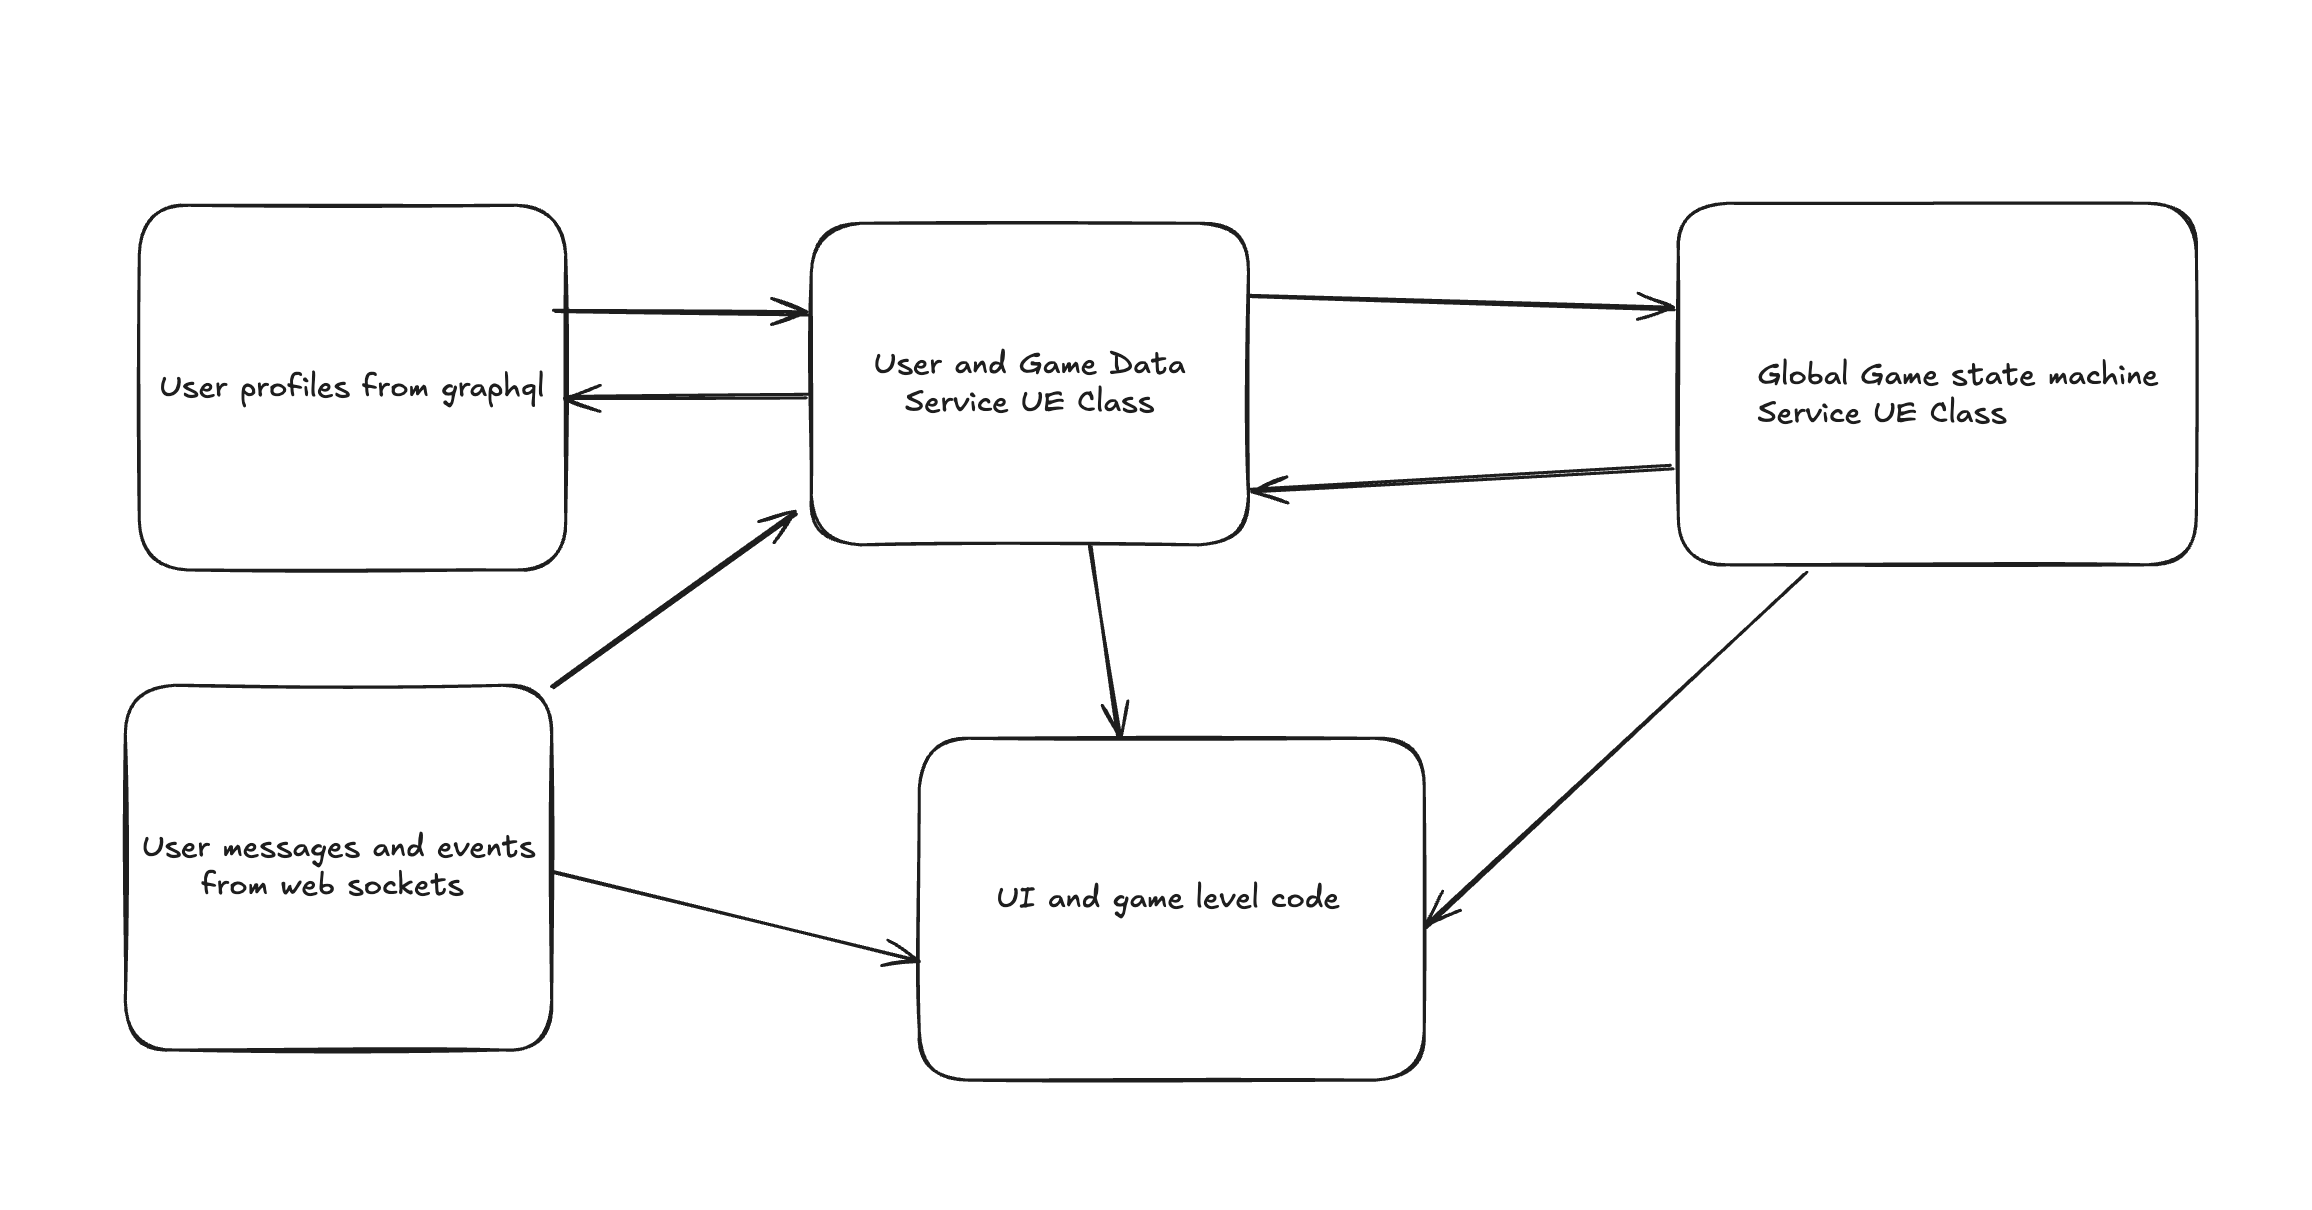
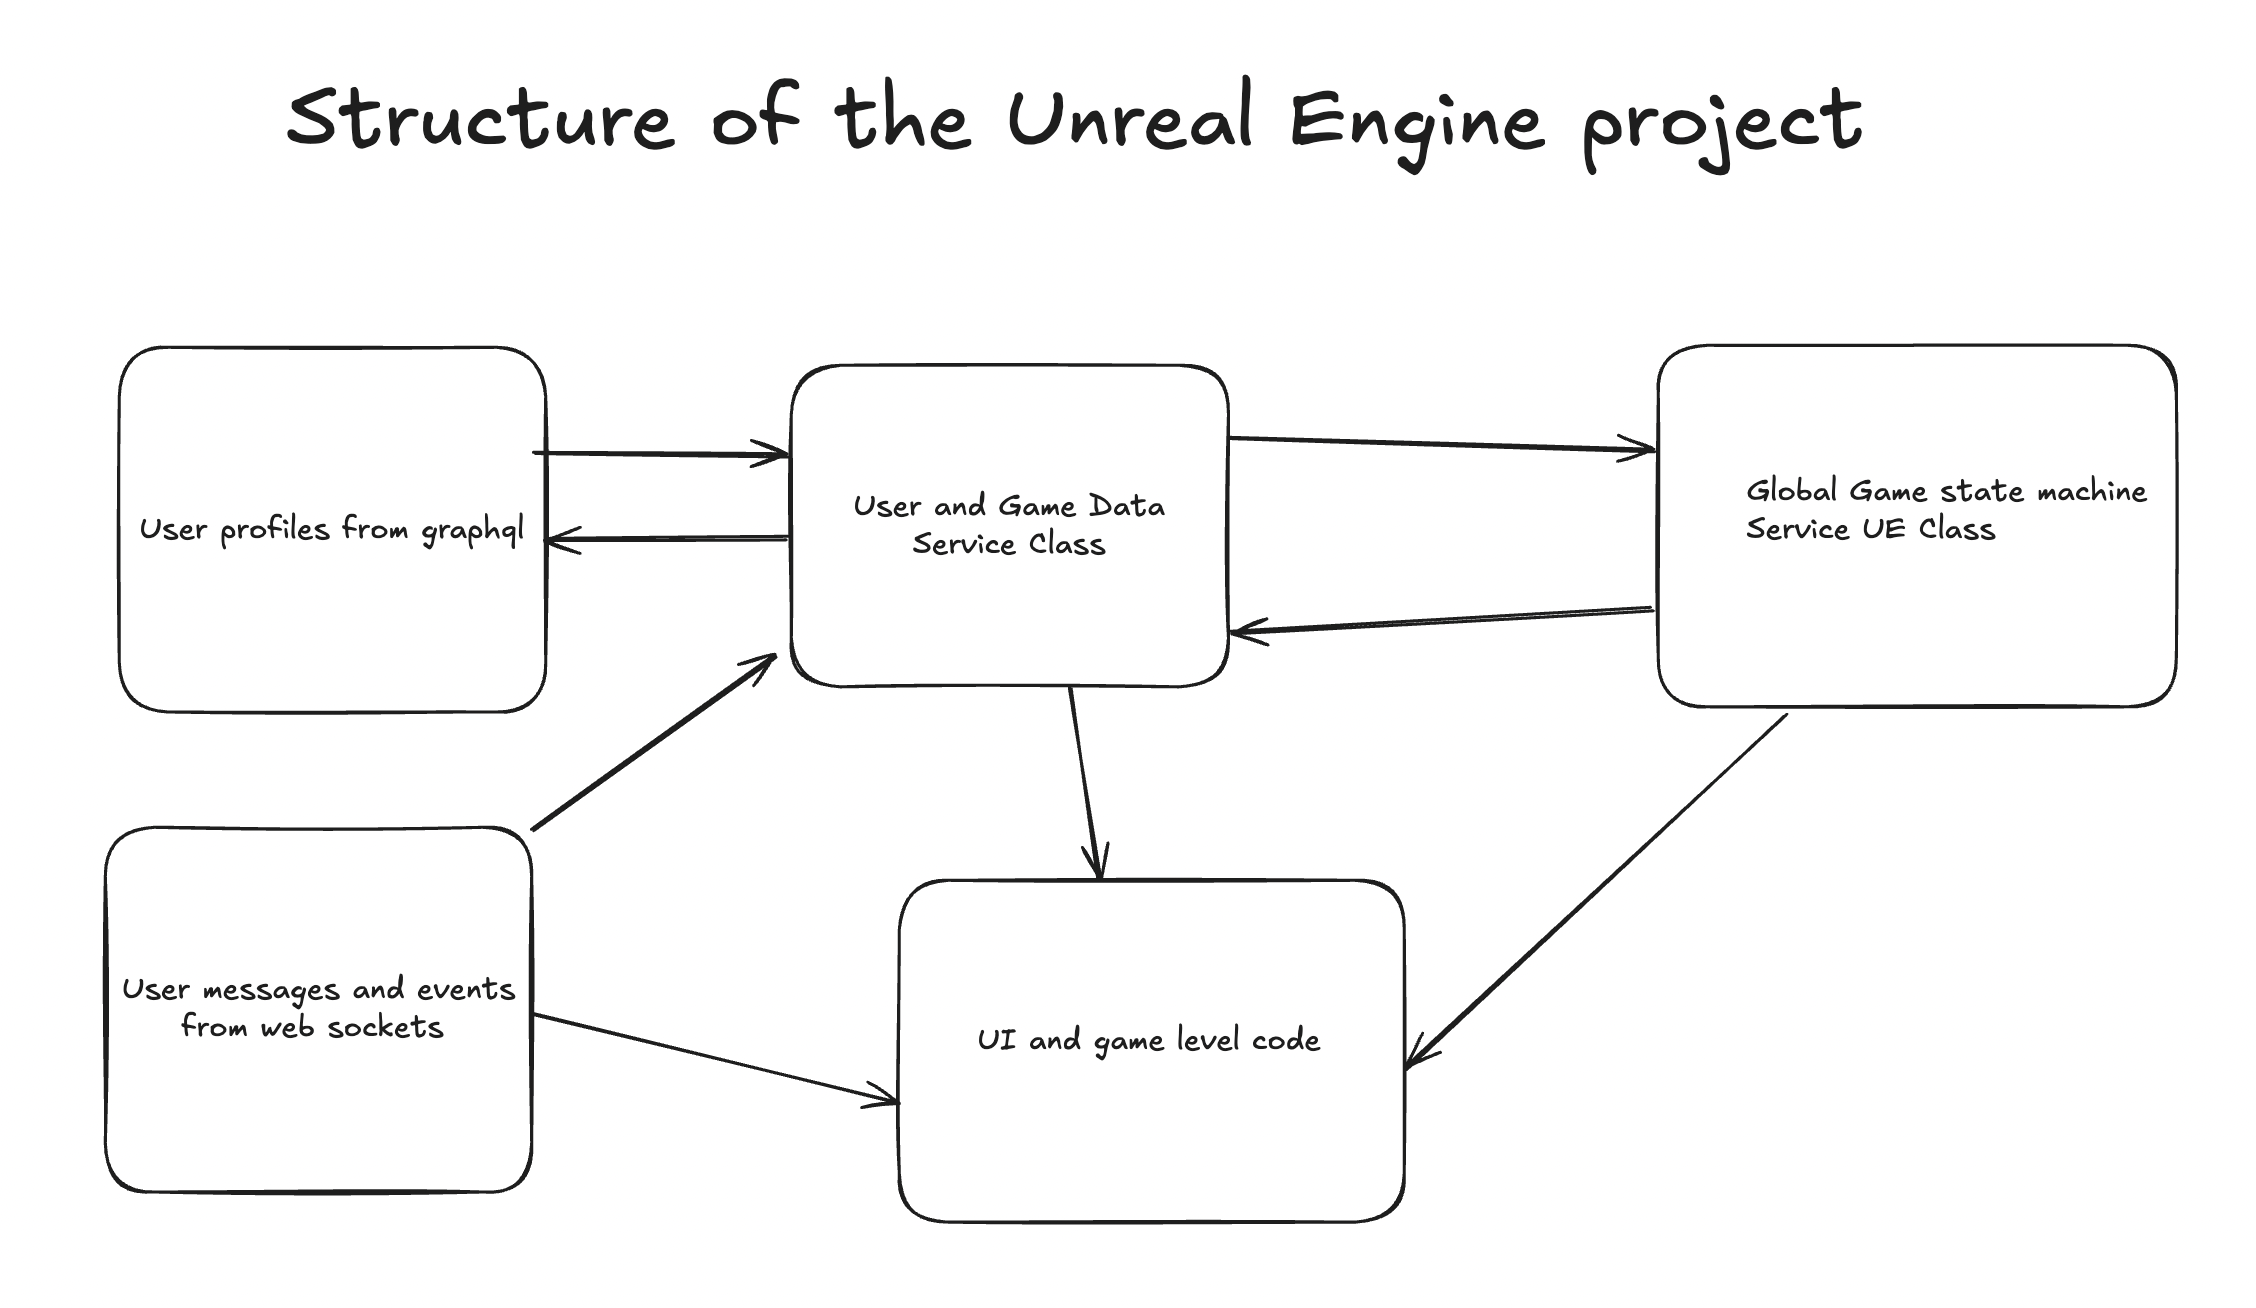
After Stef

diff --git a/index.html b/index.html
@@ -38,6 +38,9 @@
 	<div class="reveal">
 		<div class="slides">
 			<section>
+				Turn recording on
+			</section>
+			<section>
 				<p>Live interactive 3D streaming Trivia game show</p>
 				<p>@Taiyaki Studios</p>
 				<div class="right">
@@ -122,7 +125,6 @@
 					<li class="fragment">Validate our talent scouting and that our talent partner is a good
 						streamer
 					</li>
-					<li class="fragment">Honor the relationship with our talent partner</li>
 				</ul>
 			</section>
 			<section>
@@ -167,38 +169,19 @@
 				</ul>
 			</section>
 			<section>
-				<h2>Resources available</h2>
-			</section>
-			<section>
-				<h2>Team:</h2>
-				<ul>
-					<li>Me</li>
-					<li>3D Modeler with some Unreal Engine experience</li>
-					<li>Motion capture technician</li>
-					<li>Software dev, part time</li>
-					<li>Cofounder with software experience, part time</li>
-					<li>Contractors</li>
-				</ul>
-			</section>
-			<section>
-				<h2>Wider company support:</h2>
-				<ul>
-					<li>Self taught Unreal Engineer</li>
-					<li>Experienced VTuber</li>
-					<li>Talent management, contractors, promotional budget</li>
-				</ul>
-			</section>
-			<section>
 				<h2>Existing work:</h2>
 				<ul>
-					<li>Acquired tech: initial proof of concept of streaming interactive game capturing Twitch/TikTok events</li>
+					<li>Acquired tech: initial proof of concept of a streaming interactive game capturing Twitch/TikTok events</li>
 					<li>High quality 3D model, motion capture setup</li>
 				</ul>
 			</section>
 			<section>
-				<p>Decision time: We have an existing proof of concept, that will be developed further, do we
-					develop
-					together, or separately</p>
+				<h2>Decision time:</h2>
+				<ul>
+					<li>We have an existing proof of concept, that will be developed further, do we
+						develop
+						together, or separately</li>
+				</ul>
 			</section>
 
 			<section>
@@ -227,7 +210,10 @@ Restate where we are
 				<img height="650"  src="./software.png">
 			</section>
 			<section>
-				<p>Decision time: what to keep in Unreal Engine and what to move out into code</p>
+				<h2>Decision time:</h2>
+				<ul>
+					<li>What to keep in Unreal Engine and what to move out into code</li>
+				</ul>
 			</section>
 			<section>
 				<img height="650"  src="./blueprint.png">
@@ -235,7 +221,7 @@ Restate where we are
 			<section>
 				<h2>Goals for the structure of Unreal Engine:</h2>
 				<ul>
-					<li class="fragment">Make it as easy as possible for artists and unreal devs to add content, and modify things,
+					<li class="fragment">Make it easy for artists and contractros devs to add content and modify things,
 						daily
 						while safe as possible</li>
 					<li class="fragment">Make the runtime easy to change both offline and while the show is live</li>
@@ -313,6 +299,7 @@ Restate where we are
 				<ul>
 					<li class="fragment">Openess to other platforms</li>
 					<li class="fragment">Talent is really hard</li>
+					<li class="fragment">Analytics need to be geared towards the algo growth</li>
 					<li class="fragment">State machine + encapsulation in UE worked really well</li>
 					<li class="fragment">Local config in JSON is very painful</li>
 					<li class="fragment">Git can work with non technical team members with handholding</li>
